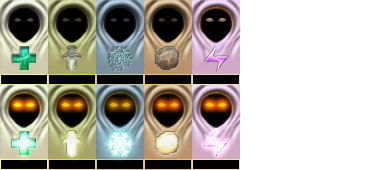
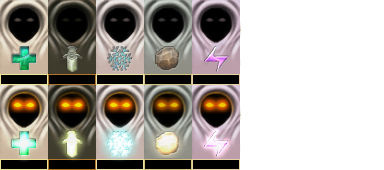
MOD Divine intervention and level up more different

Changed region(s): [[0.125, 0.4706, 0.625, 0.9412], [0.125, 0.0, 0.625, 0.4412], [0.125, 0.9706, 0.625, 1.0]]

diff --git a/src/PlayerEntity.cpp b/src/PlayerEntity.cpp
@@ -56,6 +56,7 @@ PlayerEntity::PlayerEntity(float x, float y)
   rageFireDelay = 1.0f;
   invincibleDelay = -1.0f;
   divineInterventionDelay = -1.0f;
+  showCone = false;
   fireAnimationDelay = -1.0f;
   fireAnimationDelayMax = 0.4f;
   spellAnimationDelay = -1.0f;
@@ -176,8 +177,10 @@ float PlayerEntity::getPercentFireDelay()
   else return (1.0f - currentFireDelay / fireDelay);
 }
 
-float PlayerEntity::getLightCone()
+float PlayerEntity::getFadingDivinity(bool showCone)
 {
+  if (!this->showCone && showCone) return -1.0f;
+
   if (playerStatus == playerStatusPraying)
   {
     float result = 1.0f;
@@ -2384,6 +2387,7 @@ void PlayerEntity::onClearRoom()
     {
       divineInterventionDelay = WORSHIP_DELAY / 2;
       isRegeneration = true;
+      showCone = true;
       if (divinity.level >= 5) heal(4);
       else if (divinity.level >= 4) heal(3);
       else if (divinity.level >= 3) heal(2);
@@ -2873,6 +2877,7 @@ void PlayerEntity::donate(int n)
       new ItemEntity(itemType, xItem, yItem);
       SoundManager::getInstance().playSound(SOUND_OM);
       divineInterventionDelay = WORSHIP_DELAY / 2;
+      showCone = true;
       isRegeneration = false;
       for (int i = 0; i < 8; i++)
       {
@@ -3080,6 +3085,7 @@ void PlayerEntity::divineHeal(int hpHealed)
   if (hp > hpMax) hp = hpMax;
   specialState[SpecialStatePoison].active = false;
   divineInterventionDelay = WORSHIP_DELAY;
+  showCone = true;
   isRegeneration = false;
   game().addHealingStat(hp - oldHp);
 }
@@ -3242,6 +3248,7 @@ void PlayerEntity::addPiety(int n)
   {
     SoundManager::getInstance().playSound(SOUND_OM);
     divineInterventionDelay = WORSHIP_DELAY / 2;
+    showCone = false;
     isRegeneration = false;
     pietyLevelUp();
     computePlayer();

diff --git a/src/WitchBlastGame.cpp b/src/WitchBlastGame.cpp
@@ -1899,7 +1899,7 @@ void WitchBlastGame::renderHud()
   }
 
   // light cone ?
-  float fade = player->getLightCone();
+  float fade = player->getFadingDivinity(true);
   if (fade > 0.0f)
   {
     sf::Sprite cone;
@@ -2316,7 +2316,7 @@ void WitchBlastGame::renderRunningGame()
       divSprite.setTextureRect(sf::IntRect(player->getDivinity().divinity * 48, 0, 48, 85));
       app->draw(divSprite);
 
-      float fade = player->getLightCone();
+      float fade = player->getFadingDivinity(false);
       if (fade > 0.0f && player->getPlayerStatus() != PlayerEntity::playerStatusPraying)
       {
         divSprite.setTextureRect(sf::IntRect(player->getDivinity().divinity * 48, 85, 48, 85));

diff --git a/src/PlayerEntity.h b/src/PlayerEntity.h
@@ -238,7 +238,7 @@ class PlayerEntity : public BaseCreatureEntity
      *
      *  \return : the percentage (between 0.0f for empty to 1.0 for full) or -1.0f if no light cone
      */
-    float getLightCone();
+    float getFadingDivinity(bool showCone);
 
     /*!
      *  \brief called when the player get an item
@@ -560,6 +560,7 @@ class PlayerEntity : public BaseCreatureEntity
     int criticalChance;
     float invincibleDelay;
     float divineInterventionDelay;
+    bool showCone;
     bool isRegeneration;
     bool isFairyTransmuted;
     int lostHp[LAST_LEVEL];
